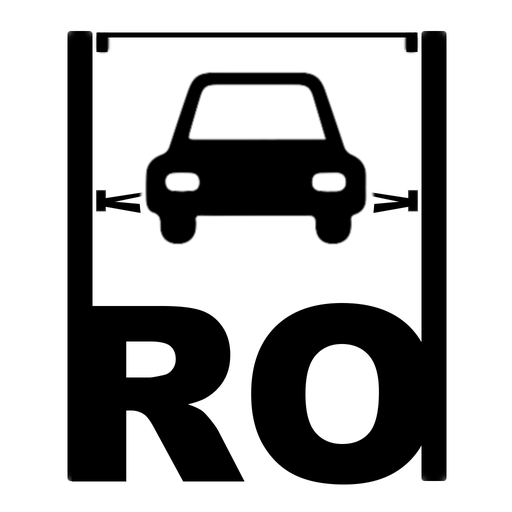
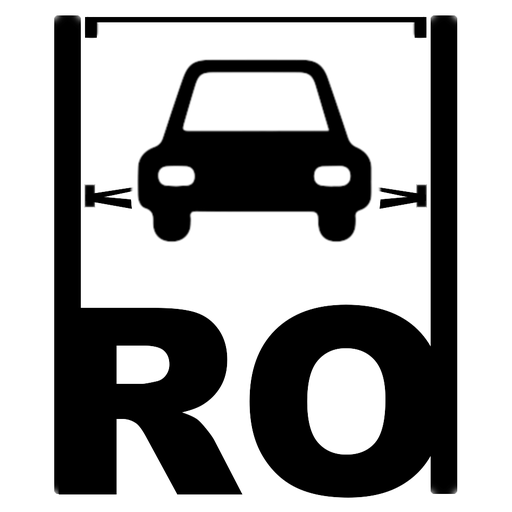
Refresh brand wordmark and tune the header mark tile.
Pull in the updated wordmark, trim mark padding for clearer
sizing, and seat the icon in the accent square at a balanced scale.

diff --git a/gui/ui/src/components/AppShell.tsx b/gui/ui/src/components/AppShell.tsx
@@ -3,7 +3,6 @@ import { NavLink, Outlet, useLocation } from "react-router-dom";
 import { Button } from "@/components/ui/button";
 import { useTheme } from "@/hooks/useTheme";
 import { cn } from "@/lib/utils";
-import carroMark from "@/assets/carro-mark-512.png";
 import carroMarkOnDark from "@/assets/carro-mark-512-on-dark.png";
 import carroWordmark from "@/assets/carro-wordmark.png";
 import carroWordmarkOnDark from "@/assets/carro-wordmark-on-dark.png";
@@ -52,18 +51,20 @@ export function AppShell({
         <div className="mx-auto flex max-w-6xl flex-wrap items-center justify-between gap-3 px-5 py-3">
           <div className="flex items-center gap-3">
             {scannerShell ? (
-              <div className="flex h-9 w-9 items-center justify-center rounded-xl bg-accent text-accent-fg">
+              <div className="flex h-9 w-9 items-center justify-center rounded-xl bg-accent text-accent-fg shadow-sm ring-1 ring-black/10 dark:ring-white/15">
                 <Cable className="h-4 w-4" />
               </div>
             ) : (
-              <img
-                src={dark ? carroMarkOnDark : carroMark}
-                alt=""
-                width={36}
-                height={36}
-                className="h-9 w-9 object-contain"
-                draggable={false}
-              />
+              <div className="flex h-9 w-9 shrink-0 items-center justify-center overflow-hidden rounded-xl bg-accent p-1 shadow-sm ring-1 ring-black/10 dark:ring-white/15">
+                <img
+                  src={carroMarkOnDark}
+                  alt=""
+                  width={28}
+                  height={28}
+                  className="h-7 w-7 object-contain"
+                  draggable={false}
+                />
+              </div>
             )}
             <div>
               {scannerShell ? (
